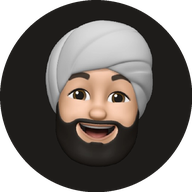
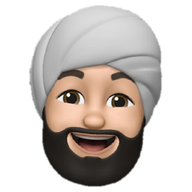
Give the memoji a proper place: cut out, larger, in the intro
- background removed so the memoji sits on the paper instead of a dark disc
- moved out of the header into the intro's top-right (mobile: above the lede);
  it turns gently toward the cursor
- favicon / touch icons regenerated from the cut-out

Claude-Session: https://claude.ai/code/session_014vCEzSTZnLn7Lt8MZwKe4s

diff --git a/css/style.css b/css/style.css
@@ -85,8 +85,7 @@ img { display: block; max-width: 100%; }
   -webkit-backdrop-filter: blur(10px); backdrop-filter: blur(10px);
   transition: background-color 0.9s var(--ease);
 }
-.top__name { grid-column: 1 / span 3; font-weight: 500; display: inline-flex; align-items: center; gap: 10px; align-self: center; }
-.top__avatar { width: 24px; height: 24px; border-radius: 50%; flex: none; }
+.top__name { grid-column: 1 / span 3; font-weight: 500; }
 .top__nav { grid-column: 7 / span 4; display: flex; gap: 22px; }
 .top__time { grid-column: 11 / span 2; justify-self: end; color: inherit; opacity: 0.6; }
 @media (max-width: 760px) {
@@ -97,8 +96,8 @@ img { display: block; max-width: 100%; }
   .top__name { white-space: nowrap; }
   .top__time { display: none; }
 }
-@media (max-width: 480px) {
-  .top__label { display: none; }
+@media (max-width: 400px) {
+  .top__nav { gap: 11px; font-size: 13px; }
 }
 
 /* ─────────────────────────── intro ─────────────────────────── */
@@ -115,6 +114,20 @@ img { display: block; max-width: 100%; }
   line-height: 1.02;
   letter-spacing: -0.035em;
   position: relative; z-index: 2;
+}
+/* the memoji sits in the empty top-right of the intro, tilting toward the cursor */
+.intro__me {
+  position: absolute;
+  top: clamp(110px, 19vh, 190px);  /* same as the intro’s top padding, so it lines up with the lede */
+  right: var(--pad);
+  width: clamp(104px, 11.5vw, 176px); height: auto;
+  transform-origin: 50% 85%;
+  will-change: transform;
+  opacity: 0; animation: me-in 1.2s 0.5s var(--ease) forwards;
+}
+@keyframes me-in { from { opacity: 0; translate: 0 18px; } to { opacity: 1; translate: 0 0; } }
+@media (max-width: 760px) {
+  .intro__me { position: static; width: 84px; margin: 0 0 18px -6px; }
 }
 .intro__lede .soft {
   font-family: var(--serif); font-style: italic; font-weight: 300;

diff --git a/js/main.js b/js/main.js
@@ -349,6 +349,23 @@
     peek.style.rotate = `${pk.rot.toFixed(2)}deg`;
   }
 
+  /* ───────────── memoji: a small head-turn toward the cursor ───────────── */
+  const me = $("#me");
+  const head = { r: 0, x: 0, y: 0 };
+  function turnHead() {
+    if (!me || !finePointer || !fVisible) return;
+    const b = me.getBoundingClientRect();
+    const cx = b.left + b.width / 2, cy = b.top + b.height / 2;
+    const tr = ptr.sx < -9e3 ? 0 : Math.max(-1, Math.min(1, (lastPX - cx) / 600));
+    const ty = ptr.sy < -9e3 ? 0 : Math.max(-1, Math.min(1, (lastPY - cy) / 600));
+    head.r = lerp(head.r, tr * 9, 0.08);
+    head.x = lerp(head.x, tr * 6, 0.08);
+    head.y = lerp(head.y, ty * 4, 0.08);
+    me.style.transform = `translate(${head.x.toFixed(2)}px, ${head.y.toFixed(2)}px) rotate(${head.r.toFixed(2)}deg)`;
+  }
+  let lastPX = 0, lastPY = 0;
+  addEventListener("pointermove", (e) => { lastPX = e.clientX; lastPY = e.clientY; }, { passive: true });
+
   /* ───────────── loop + resize ───────────── */
   initField();
   let rT;
@@ -360,6 +377,7 @@
     (function loop(t) {
       if (fVisible) drawField(t);
       movePeek();
+      turnHead();
       requestAnimationFrame(loop);
     })(0);
   }

diff --git a/index.html b/index.html
@@ -31,7 +31,7 @@
 <a class="skip" href="#work">Skip to work</a>
 
 <header class="top" id="top">
-  <a class="top__name" href="#" aria-label="Jaswant Singh — home"><img class="top__avatar" src="img/avatar.jpg" alt="" width="24" height="24" /><span class="top__label">Jaswant Singh</span></a>
+  <a class="top__name" href="#">Jaswant Singh</a>
   <nav class="top__nav" aria-label="Primary">
     <a href="#work">Work</a>
     <a href="#experience" class="top__wide">Experience</a>
@@ -46,6 +46,7 @@
 
   <!-- ─────────────────────────── INTRO ─────────────────────────── -->
   <section class="intro" aria-label="Introduction">
+    <img class="intro__me" id="me" src="img/me.png" width="180" height="180" alt="Jaswant’s memoji: a smiling face with a grey turban and a full black beard" />
     <h1 class="intro__lede" data-split>
       GenAI engineer shipping RAG pipelines, agents and the full&#8209;stack products around them.
       <span class="soft">Painter, after hours.</span>
